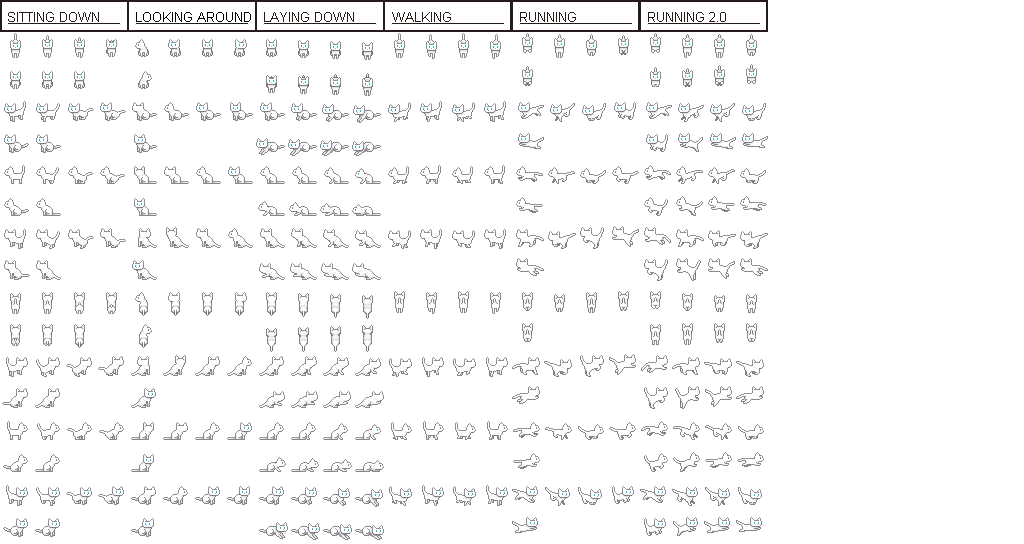
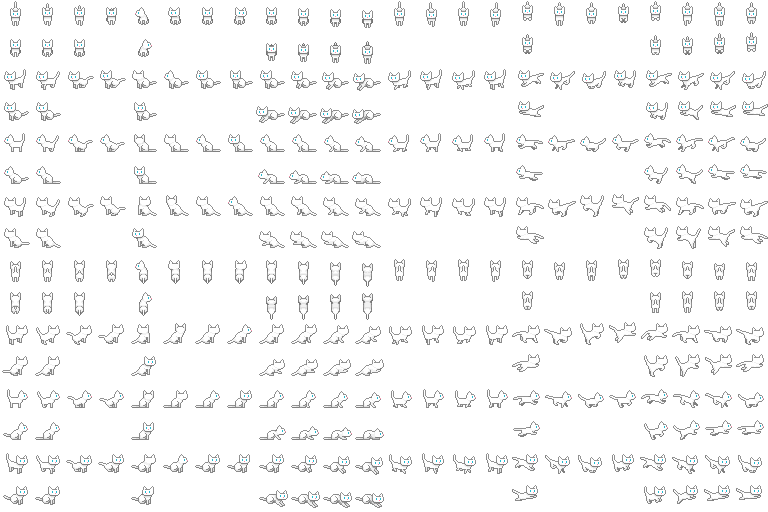
changed character

diff --git a/entities.py b/entities.py
@@ -6,7 +6,7 @@ class Player(pygame.sprite.Sprite):
         super().__init__(groups)
         
         # sprite sheet
-        self.frames_dict = import_tilemap(24, 16, 'images', 'graphics', 'characters', 'blue_cat')
+        self.frames_dict = import_tilemap(24, 16, 'images', 'graphics', 'characters', 'white_grey_cat')
 
         self.animations = {}
 
